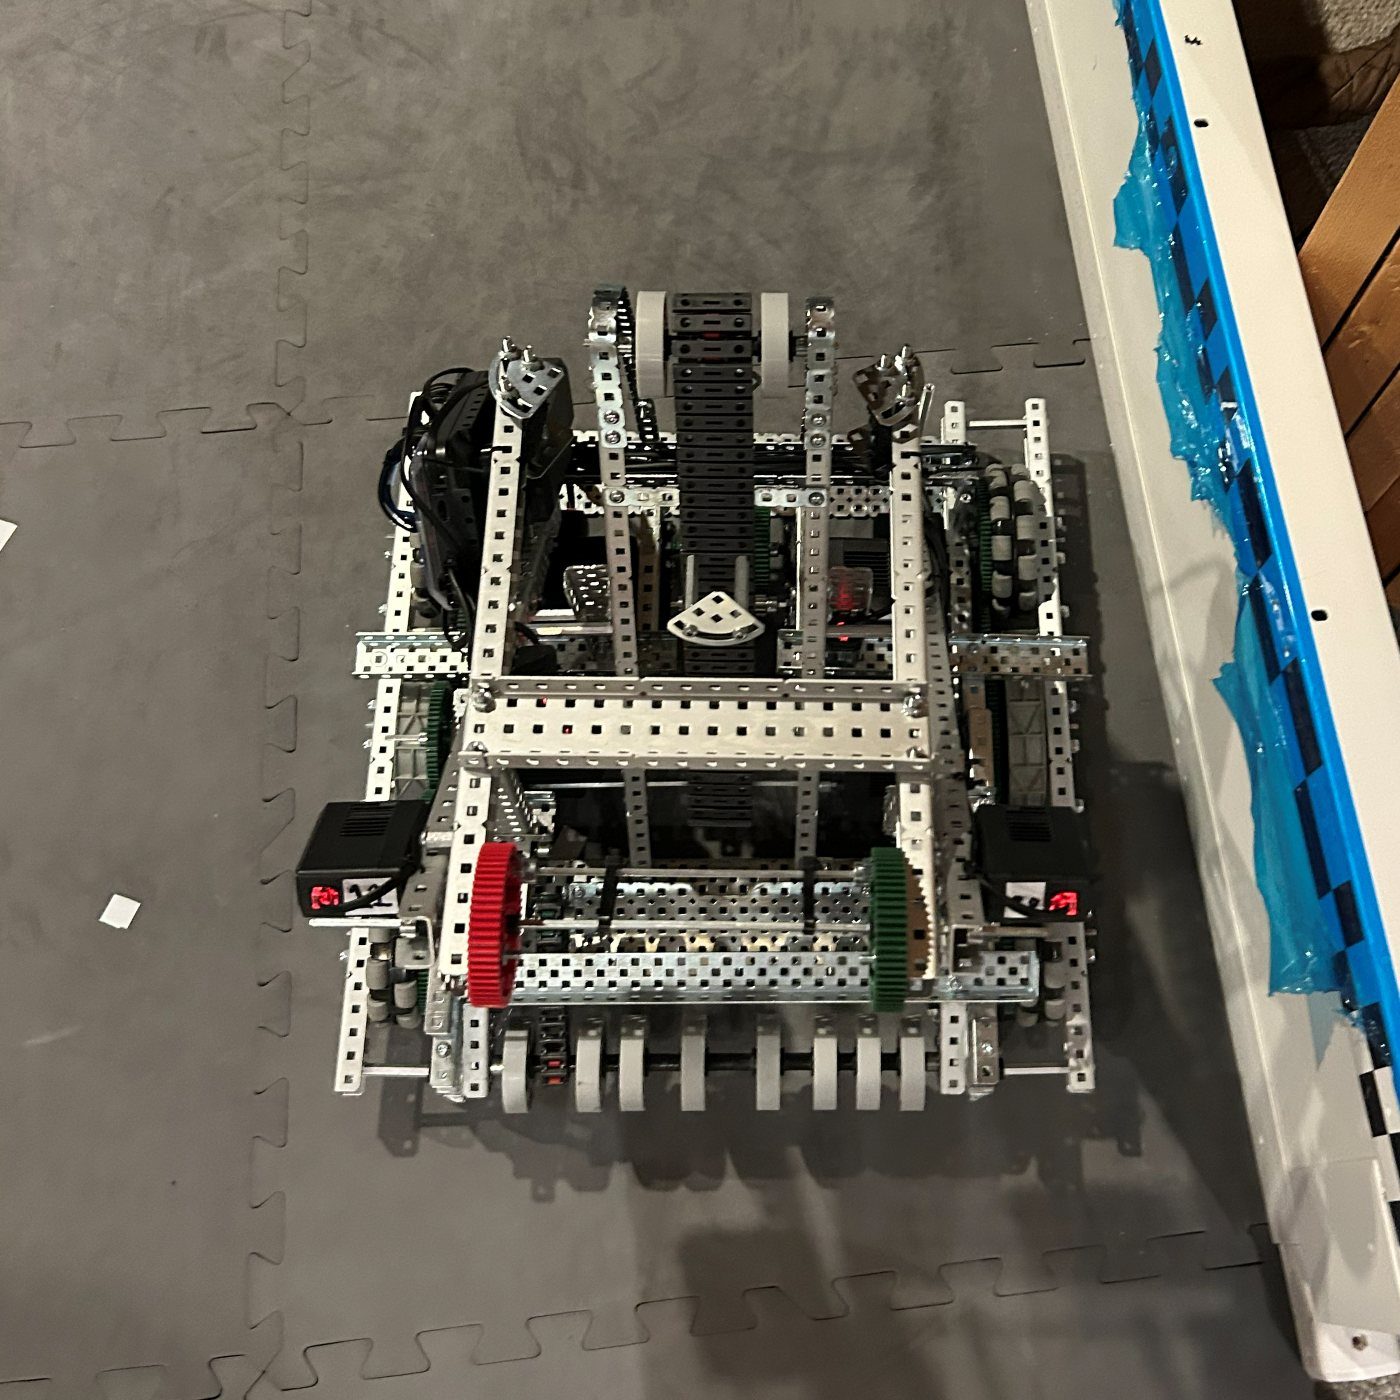
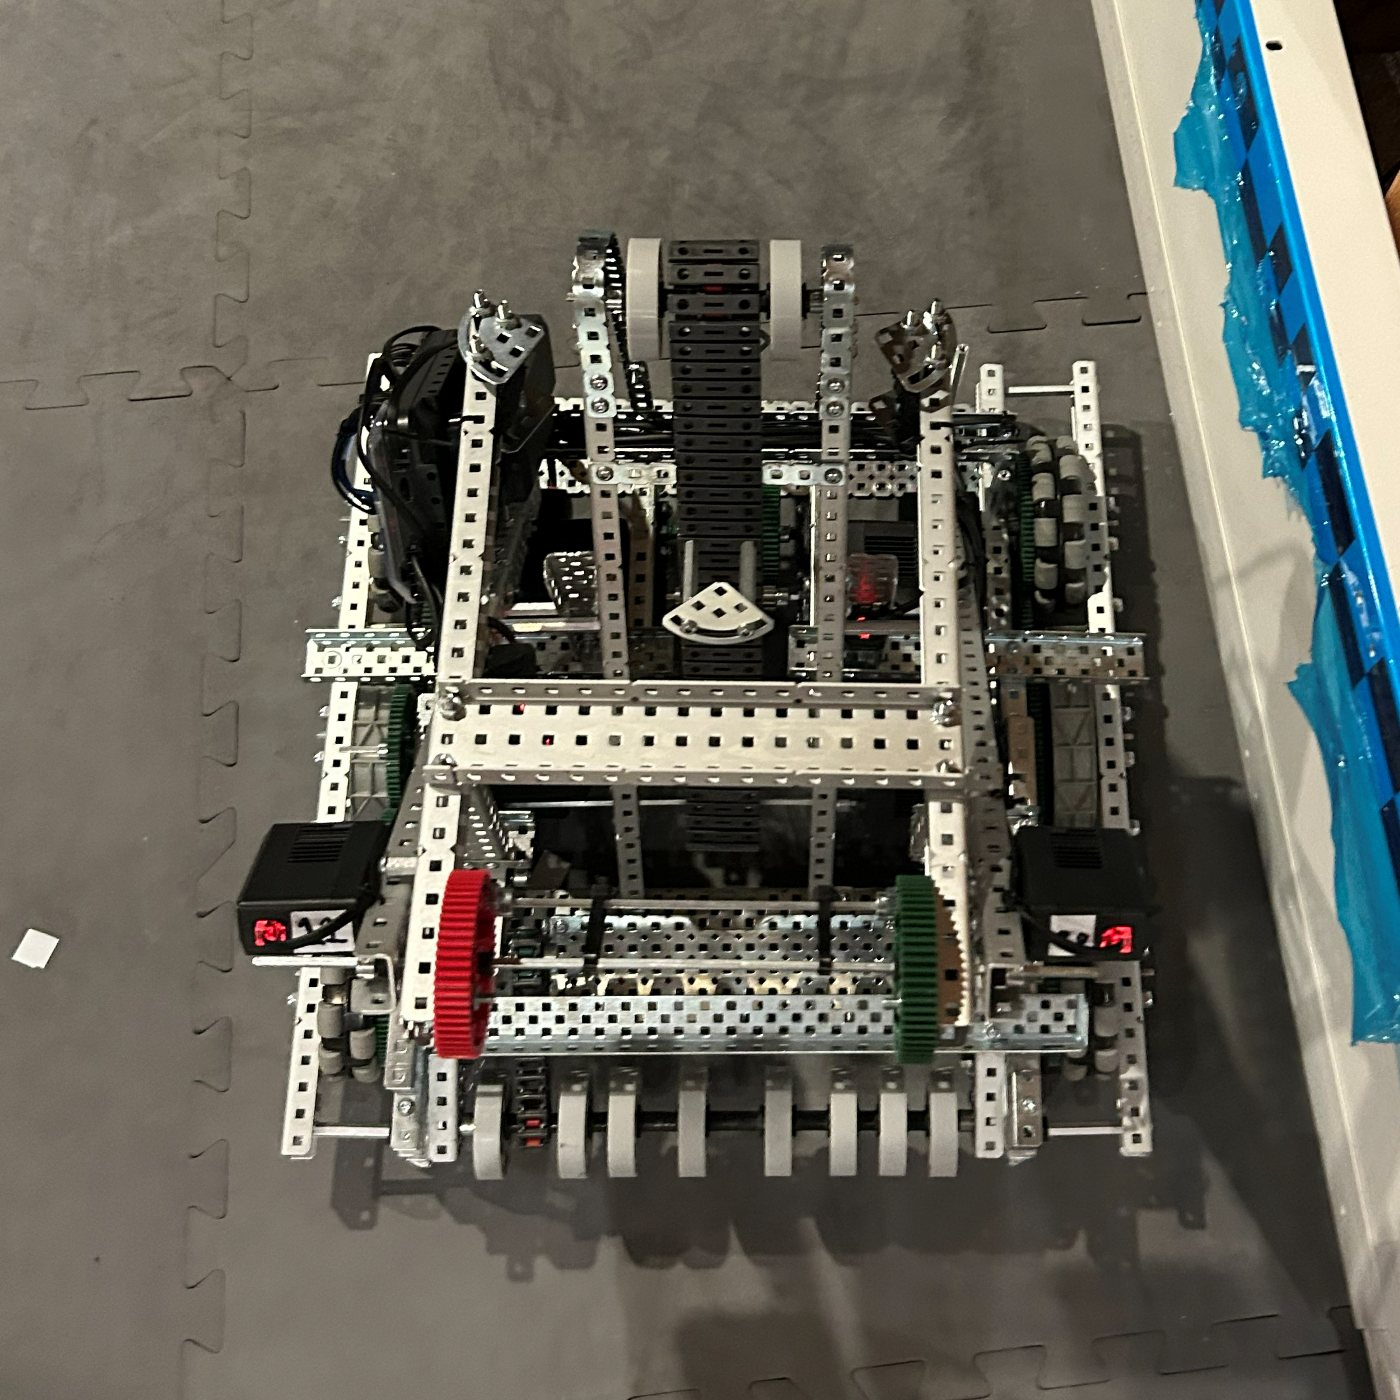
Strengthen the pink glow in light mode and crop the robot photo tighter

diff --git a/vex.html b/vex.html
@@ -10,7 +10,7 @@
 <meta property="og:url" content="https://ryanzhang-ca.github.io/vex.html">
 <meta property="og:title" content="VEX Competition Robot · Ryan Zhang">
 <meta property="og:description" content="Ryan led his high school robotics team&#x27;s VEX competition robot to a regional silver medal: mechanical design, fabrication, wiring, sensors and pneumatics.">
-<meta property="og:image" content="https://ryanzhang-ca.github.io/images/vex-robot-field.jpg">
+<meta property="og:image" content="https://ryanzhang-ca.github.io/images/vex-robot-field.jpg?v=2">
 <meta name="twitter:card" content="summary_large_image">
 <link rel="icon" type="image/png" href="images/rz-logo.png">
 <link rel="apple-touch-icon" href="images/rz-logo.png">
@@ -95,8 +95,8 @@
         </div>
       </div>
       <div class="scene-media">
-        <canvas data-src="images/vex-robot-field.jpg" data-camera='[[0,0.52,0.5,1.1],[0.24,0.52,0.5,1.1],[0.42,0.52,0.66,1.7],[0.6,0.52,0.66,1.7],[0.76,0.52,0.32,1.6],[0.88,0.52,0.32,1.6],[1,0.5,0.5,1]]' role="img" aria-label="The VEX competition robot on a practice field, seen from above: an aluminum chassis with a tread conveyor down the middle, red and green gears on the front axle, and a row of rollers across the front."></canvas>
-        <img class="scene-fallback" src="images/vex-robot-field.jpg" alt="The VEX competition robot on a practice field, seen from above: an aluminum chassis with a tread conveyor down the middle, red and green gears on the front axle, and a row of rollers across the front." width="1400" height="1400">
+        <canvas data-src="images/vex-robot-field.jpg?v=2" data-camera='[[0,0.5,0.5,1],[0.24,0.5,0.5,1],[0.42,0.5,0.69,1.5],[0.6,0.5,0.69,1.5],[0.76,0.5,0.3,1.4],[0.88,0.5,0.3,1.4],[1,0.5,0.5,1]]' role="img" aria-label="The VEX competition robot on a practice field, seen from above: an aluminum chassis with a tread conveyor down the middle, red and green gears on the front axle, and a row of rollers across the front."></canvas>
+        <img class="scene-fallback" src="images/vex-robot-field.jpg?v=2" alt="The VEX competition robot on a practice field, seen from above: an aluminum chassis with a tread conveyor down the middle, red and green gears on the front axle, and a row of rollers across the front." width="1400" height="1400">
       </div>
     </div>
   </section>
@@ -126,7 +126,7 @@
       <li>Coached new members on tool usage, wiring, and safety procedures, building a team capable of independent troubleshooting and carrying it to a regional silver medal finish.</li>
     </ol>
     <figure class="media wrap reveal" style="max-width: 560px">
-      <img src="images/vex-robot-field.jpg" alt="The VEX competition robot on a practice field, seen from above: an aluminum chassis with a tread conveyor down the middle, red and green gears on the front axle, and a row of rollers across the front." width="1400" height="1400" loading="lazy">
+      <img src="images/vex-robot-field.jpg?v=2" alt="The VEX competition robot on a practice field, seen from above: an aluminum chassis with a tread conveyor down the middle, red and green gears on the front axle, and a row of rollers across the front." width="1400" height="1400" loading="lazy">
       <figcaption>Fig. 2 · The robot on a practice field, from above.</figcaption>
     </figure>
   </section>

diff --git a/experience.html b/experience.html
@@ -92,7 +92,7 @@
           <p class="org">Pickering High School · Ajax, ON</p>
           <p class="wins"><b>Silver</b> regional medal · <b>VEX</b> competition robot</p>
           <figure>
-            <img src="images/vex-robot-field.jpg" alt="The VEX competition robot on a practice field, seen from above: an aluminum chassis with a tread conveyor down the middle, red and green gears on the front axle, and a row of rollers across the front." width="1400" height="1400" loading="lazy">
+            <img src="images/vex-robot-field.jpg?v=2" alt="The VEX competition robot on a practice field, seen from above: an aluminum chassis with a tread conveyor down the middle, red and green gears on the front axle, and a row of rollers across the front." width="1400" height="1400" loading="lazy">
             <figcaption>The VEX competition robot on a practice field.</figcaption>
           </figure>
           <a class="more" href="vex.html">See the project</a>

diff --git a/index.html b/index.html
@@ -140,8 +140,8 @@
           <div class="ctas"><a class="pill" href="vex.html">Learn more</a><a class="pill pill-secondary" href="vex.html#video">Watch it run</a></div>
         </div>
         <div class="chapter-media" aria-hidden="true">
-          <canvas data-src="images/vex-robot-field.jpg" data-camera='[[0,0.52,0.52,1.35],[1,0.5,0.5,1]]'></canvas>
-          <img class="scene-fallback" src="images/vex-robot-field.jpg" alt="" width="1400" height="1400" loading="lazy">
+          <canvas data-src="images/vex-robot-field.jpg?v=2" data-camera='[[0,0.5,0.5,1.2],[1,0.5,0.5,1]]'></canvas>
+          <img class="scene-fallback" src="images/vex-robot-field.jpg?v=2" alt="" width="1400" height="1400" loading="lazy">
         </div>
       </div>
     </div>

diff --git a/styles.css b/styles.css
@@ -11,7 +11,7 @@
   --bg-alt: #f5f5f7;
   --band: rgba(232, 232, 237, 0.55);  /* a gray band the glow still shows through */
   --glow-1: rgba(0, 113, 227, 0.16);
-  --glow-2: rgba(175, 82, 222, 0.13);
+  --glow-2: rgba(175, 82, 222, 0.22);
   --glow-3: rgba(50, 173, 230, 0.13);
   --card: #f5f5f7;          /* photo cards */
   --pattern: rgba(0, 0, 0, 0.16);  /* the circuit traces behind the page */
